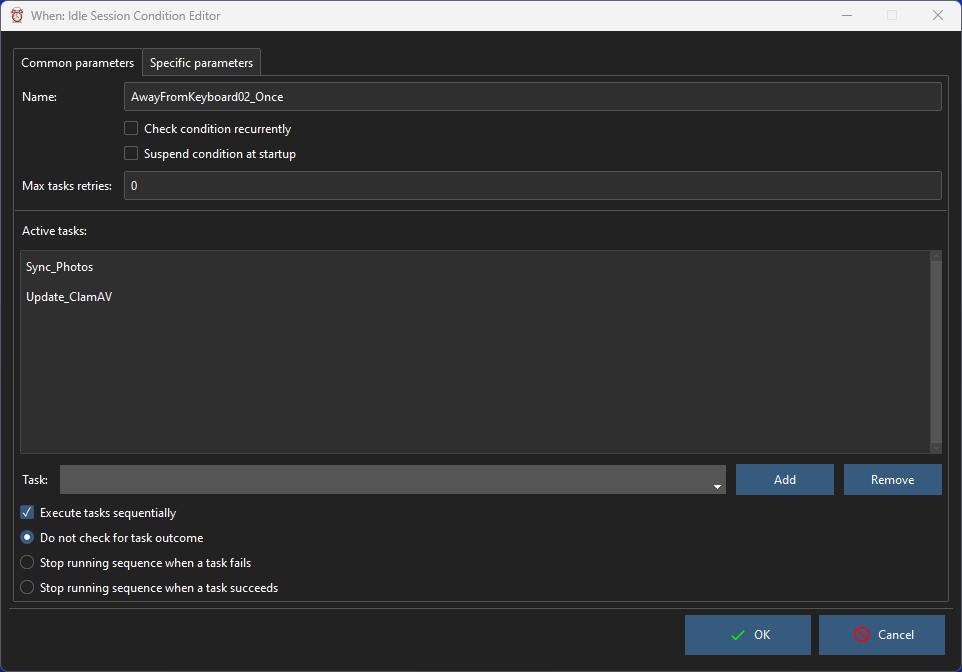
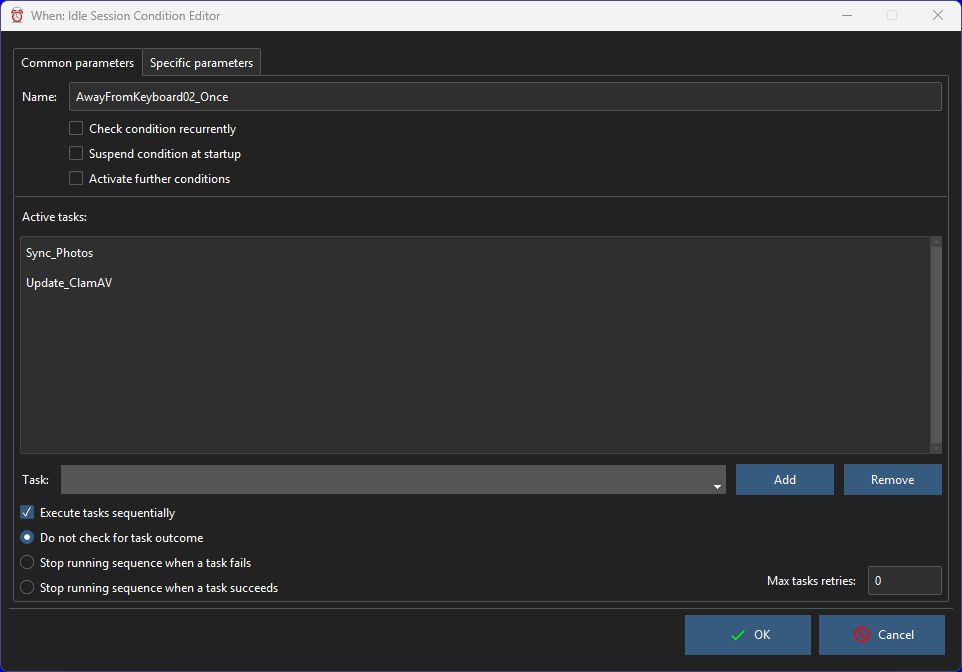
docs: describe new MCRT features and update images

diff --git a/support/docs/conditions.md b/support/docs/conditions.md
@@ -7,12 +7,17 @@ All condition editors share a common part, which encompasses all parameters that
 It allows to set the mandatory item _Name_ (an alphanumeric string beginning either with a letter or an underscore[^1]), the tasks associated with it, and to decide other behaviors specific to conditions:
 
 * _Check Condition Recurrently_: when set, the condition is continuously re-checked even after its verification, becoming _recurrent_. By default a verified condition stops being checked after the first occurrence, unless a [_reset conditions_](tray.md) command is sent via the system tray menu.
-* _Max Task Retries_: when greater or equal to `0`, the number of times that the underlying scheduler will _retry_ to run the associated task or list of tasks in case one of them fails (of course `0` means _only one check and no retries_); a value of `-1` means that the scheduler will try to run the associated task(s) forever until they all succeed. Only available if the _Check Condition Recurrently_ flag is set.
 * _Suspend Condition at Startup_: to start the condition in suspended mode, which means that it will not be checked during the session.
+* _Activate further conditions_: conditions for which this option is checked will concur in activation of other specifically built [conditions](cond_confluence.md).
+* _Max Task Retries_: when greater or equal to `0`, the number of times that the underlying scheduler will _retry_ to run the associated task or list of tasks in case one of them fails (of course `0` means _only one check and no retries_); a value of `-1` means that the scheduler will try to run the associated task(s) forever until they all succeed. Only available if the _Check Condition Recurrently_ flag is set.
 
 The central list displays the list of tasks associated with the condition, in the order in which they would be run in case the _Execute Tasks Sequentially_ box is checked (otherwise, all tasks are spawned simultaneously). To add a task to the list, it must be selected from the drop down list below the list and the _Add_ button must be clicked. To remove a task, it must be double clicked on the list (or selected in the drop down list, with the same effect) and the _Remove_ button has to be clicked. Note that all occurrences of the task displayed in the text box are removed from the list.
 
 When the tasks are set to be run sequentially, the behavior upon success or failure of one of them (that is: stop the sequence on either success or failure) can be specified, by clicking the appropriate option, respectively the _Stop Running Sequence when a Task Succeeds/Fails_ options. Leave the _Do Not Check for Task Outcome_ selected to ignore the outcome of the associated tasks.
+
+:::{caution}
+When a condition is set to _activate further conditions_ by checking the appropriate box, it can only be used for the specific purpose: this means that no other _tasks_ can be triggered by this condition, and in fact possible _tasks_ that were listed as its consequence prior to checking the box are deleted, and the entire _tasks_ section in the form is disabled.
+:::
 
 These are the parameters that appear on the _Common Parameters_ tab: the _Specific Parameters_ tab, instead, varies according to the type of condition that is being edited.
 
@@ -27,9 +32,10 @@ The conditions available in **When** that are natively supported by **whenever**
 
 Other conditions are supported, that are implemented as reactions to particular commands, DBus messages or method invocations, WMI events or queries, _Lua_ scripts. These conditions appear along with the native ones, and the related documentation can be found at the following locations:
 
-* [_System Load_ below Threshold](cond_extra01.md#system-load) conditions
-* [_Battery Charge_ below Threshold](cond_extra01.md#low-battery) conditions
-* [_Battery Charge_ above Threshold](cond_extra01.md#charging-battery) conditions
+* Conditions [_activated by other conditions_](cond_confluence.md)
+* [_System Load_ below threshold](cond_extra01.md#system-load) conditions
+* [_Battery Charge_ below threshold](cond_extra01.md#low-battery) conditions
+* [_Battery Charge_ above threshold](cond_extra01.md#charging-battery) conditions
 * [_Removable Drive_ available](cond_extra01.md#removable-drives) conditions
 * [_Session Locked_](cond_extra01.md#session-locked-windows) (Windows only) conditions
 

diff --git a/support/docs/cond_confluence.md b/support/docs/cond_confluence.md
@@ -1,0 +1,28 @@
+# Conditions Activated by Other Conditions
+
+These conditions are specifically built to be the consequence of the verification of other conditions. The specific parameter tab will display of list of _activating_ conditions that, after their verification, will cause the current condition to be verified.
+
+![ConditionConfluence](graphics/when-cond-confluence.png)
+
+To add a condition to the list, it is sufficient to select it from the box below the list, and click the _Add_ button. There are some constraints:
+
+* the conditions that appear in the box are only the ones that have been configured to _activate further conditions_,
+* it would be useless, and there fore it is not possible, to add a condition twice,
+* it is not possible to use a condition of this type to _activate further conditions_: the specific check box in the common parameters tab is disabled,
+* at least two _activating_ conditions must be in the list for the configuration to be valid.
+
+These constraints are enforced by the form, but they should be considered just obvious: condition duplication and the use of this type of conditions to create complicated chains is discouraged.
+
+Although it might seem complex, the workflow is quite simple: _after_ **all** the conditions listed in the list of _activating conditions_ are verified, the tasks associated to the current condition are run, as with every other type of condition. In this sentence, the word _after_ is intentionally used: there is no concept of simultaneos validity of the conditions that activate the current one. This should give a hint on what conditions are more suitable to be used to concur in the activation of another, or at least which ones should _not_ anyway. In the category of conditions that are not ideal for this use, the following generically described kinds should be counted:
+
+* conditions that depend on the status of the system in a particular instant, for example on the current load,
+* conditions that take into account interaction with the user, such as idle time or presence of removable drives,
+* conditions that are verified at certain instants in time,
+
+as well as, possibily, other types. Other conditions, such as time intervals, availability of certain files or resources that do not strictly depend on user interaction, and under certain circumstances automatic session locks[^1] can be appropriate candidates for _condition confluence_. However, **When** does not limit what conditions can be used for this purpose, and even by exploiting the less encouraged types, there might be the opportunity to use this feature productively.
+
+
+[`◀ Conditions`](conditions.md)
+
+
+[^1]: However, **when** and **whenever** do not consider _automatic_ and _manual_ session locks as different conditions or events.

diff --git a/support/docs/index.rst b/support/docs/index.rst
@@ -32,6 +32,7 @@ access to the features of **whenever** that are supported on the host environmen
    cond_timerelated
    cond_actionrelated
    cond_eventrelated
+   cond_confluence
    cond_extra01
    events
    events_extra01
